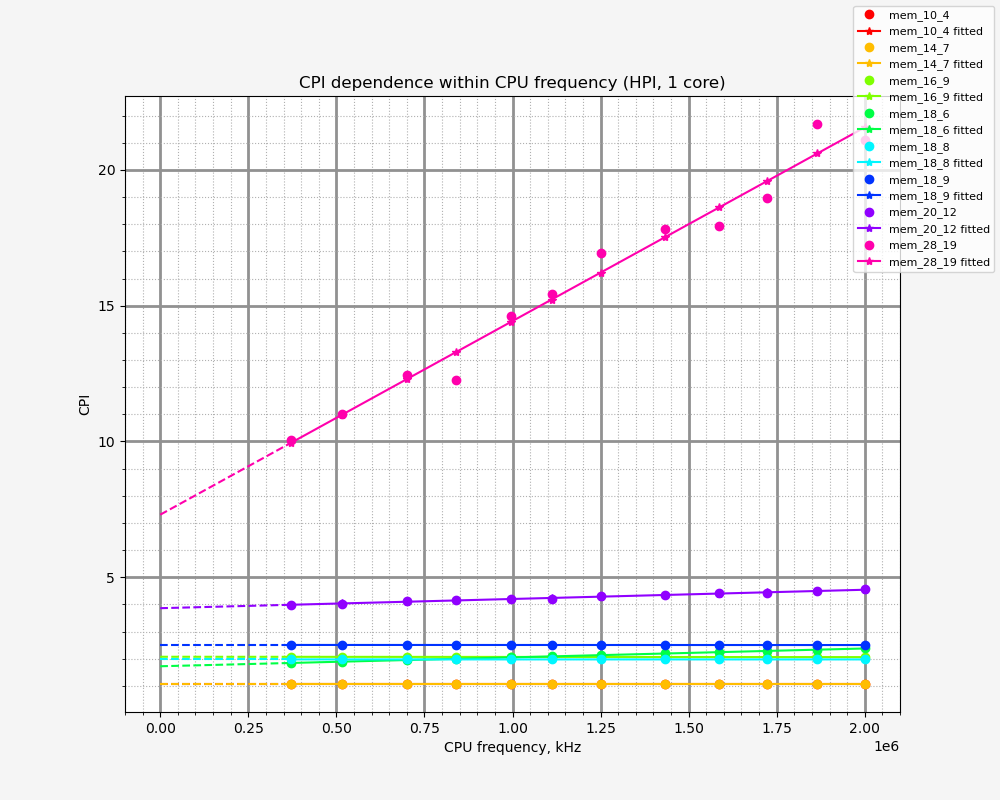
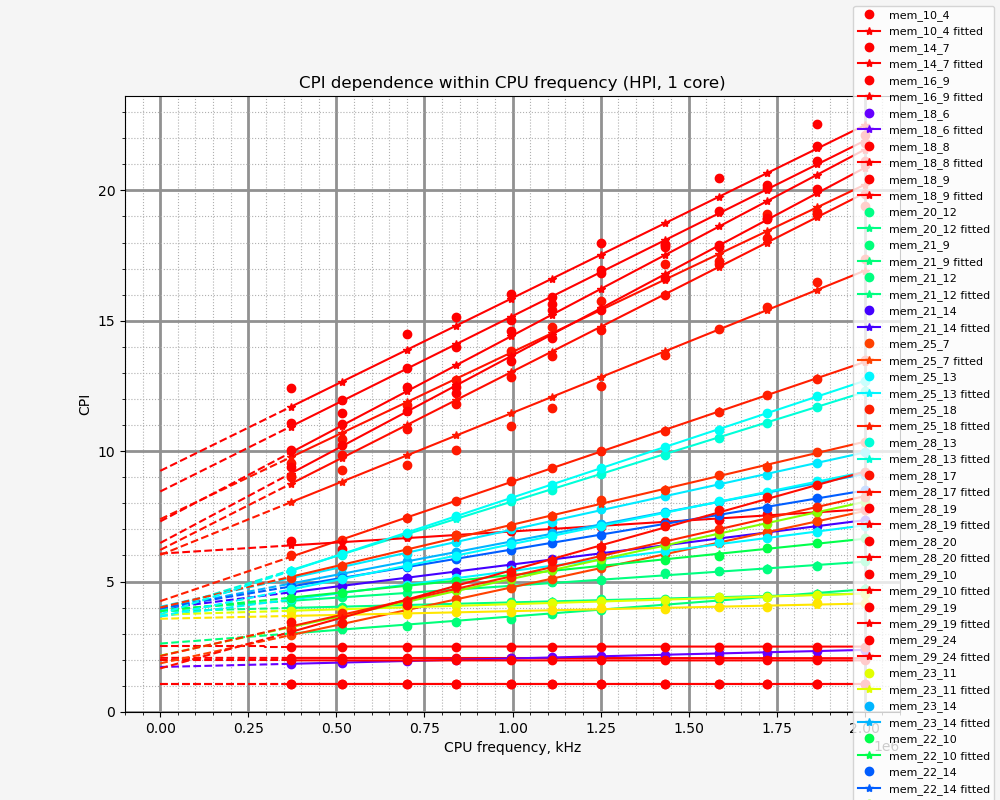
Add a lot more PMU data, update scripts for model calculations

Changed region(s): [[0.093, 0.125, 1.0, 1.0], [0.868, 0.0938, 0.899, 0.125]]

diff --git a/utils/cpi_model/model.py b/utils/cpi_model/model.py
@@ -49,6 +49,33 @@ def get_dfs_from_file(filename: str):
 
     return benchmarks, dfs
 
+def get_avg_pmu(df, pmu_field):
+    return np.mean(df[pmu_field].to_numpy())
+
+def get_cpi_model_params(l2pi_values, l3pi_values, linear_coeffs, benchmarks):
+    assert(len(l2pi_values) == len(l3pi_values))
+    assert(len(l2pi_values) == len(linear_coeffs))
+
+    hsv = plt.get_cmap('hsv')
+    colors = hsv(l3pi_values / np.max(l3pi_values))
+
+    figure = plt.figure(figsize=(FIGURE_XSIZE, FIGURE_YSIZE), facecolor=BACKGROUND_RGB)
+    axes = figure.add_subplot(projection='3d')
+    # set_axis_properties(axes)
+
+    linear_reg = LinearRegression(fit_intercept=False).fit(
+        np.swapaxes(np.array([l2pi_values - l3pi_values, l3pi_values]), 0, 1), linear_coeffs)
+    print(linear_reg.coef_)
+
+    for i in range(len(benchmarks)):
+        axes.scatter(l2pi_values[i] - l3pi_values[i], l3pi_values[i], linear_coeffs[i], label=benchmarks[i], color=colors[i])
+
+    X, Y = np.meshgrid(l2pi_values - l3pi_values, l3pi_values)
+    axes.plot_wireframe(X, Y, linear_reg.coef_[0] * X + linear_reg.coef_[1] * Y)
+
+    plt.legend()
+    plt.show()
+
 def main(args):
     benchmarks, dfs = get_dfs_from_file(args.file)
 
@@ -57,10 +84,15 @@ def main(args):
     axes = figure.add_subplot(gs[0, 0])
     set_axis_properties(axes)
 
-    hsv = plt.get_cmap('hsv')
-    colors = hsv(np.linspace(0, 0.9, len(benchmarks)))
-
     linear_coeffs = []
+    l3pi_values = []
+    l2pi_values = []
+
+    for i in range(len(benchmarks)):
+        l3pi_values.append(get_avg_pmu(dfs[benchmarks[i]], "l3pi"))
+        l2pi_values.append(get_avg_pmu(dfs[benchmarks[i]], "l2pi"))
+    hsv = plt.get_cmap('hsv')
+    colors = hsv(np.array(l2pi_values) / np.max(l2pi_values) - np.array(l3pi_values) / np.max(l2pi_values))
 
     for i in range(len(benchmarks)):
         bencmark_name = benchmarks[i].split("/")[-1]
@@ -79,7 +111,8 @@ def main(args):
         axes.plot(cpufreq_to_zero, linear_reg.predict(cpufreq_to_zero.reshape(-1, 1)),
                   color=colors[i], marker='', linestyle='--')
 
-    print(linear_coeffs)
+    get_cpi_model_params(np.array(l2pi_values), np.array(l3pi_values),
+                         np.array(linear_coeffs), np.array(benchmarks))
 
     axes.set_xlabel('CPU frequency, kHz')
     axes.set_ylabel('CPI')

diff --git a/utils/pmu_perf/pmu_perf.cpp b/utils/pmu_perf/pmu_perf.cpp
@@ -22,15 +22,12 @@ void finish_collecting(int unused)
     events_collector.disable_collection(true);
     events_collector.clear_events();
 
-    kill(pid_benchmark, SIGUSR1);
-
-    // std::cout << "Time running: " << final_pmu_values[final_pmu_values.size() - 2] << std::endl;
-    // std::cout << "Time enabled: " << final_pmu_values[final_pmu_values.size() - 1] << std::endl;
-    // std::cout << "PMU counters stats:" << std::endl;
+    // If this function was triggered before fork(), killing -1 calls
+    // kernel panic in gem5
+    if (pid_benchmark != -1)
+        kill(pid_benchmark, SIGUSR1);
 
     for (size_t i = 0; i < final_pmu_values.size() - 1; ++i) {
-    //     std::cout << "\t0x" << std::hex << events[i].perf_id << std::dec << ": " <<
-    //         final_pmu_values[i] << std::endl;
         std::cout << final_pmu_values[i] << ",";
     }
 
